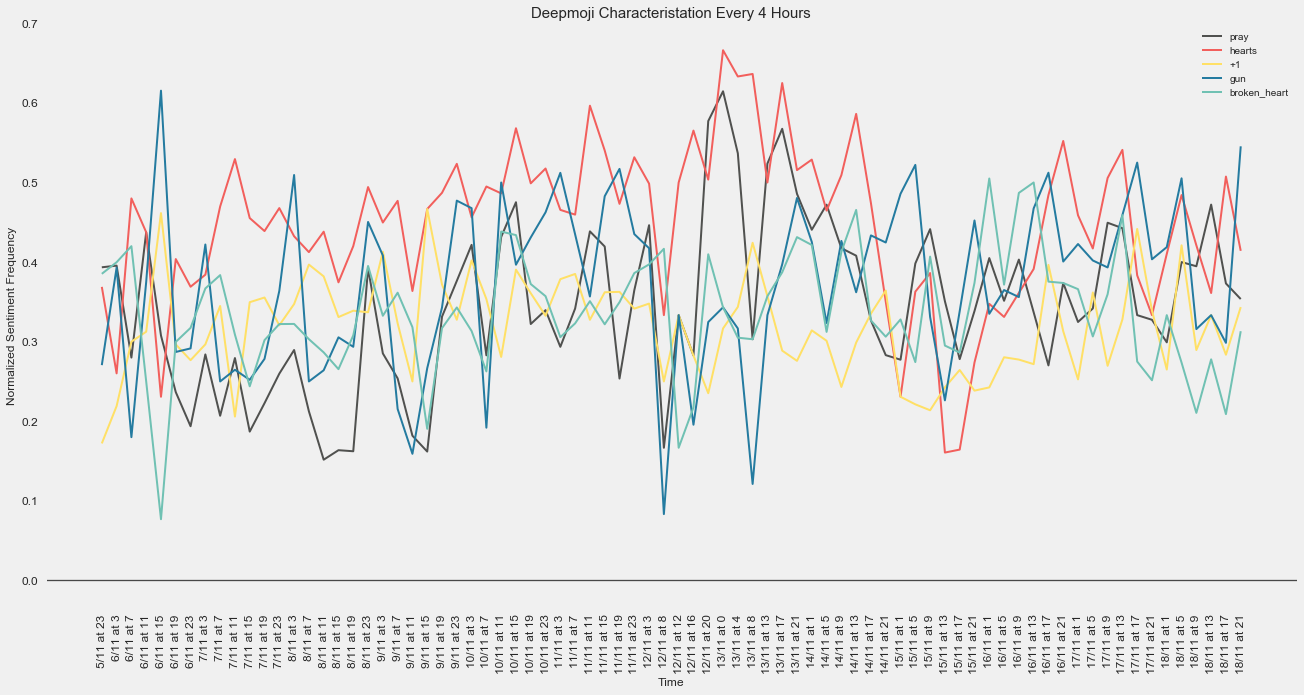
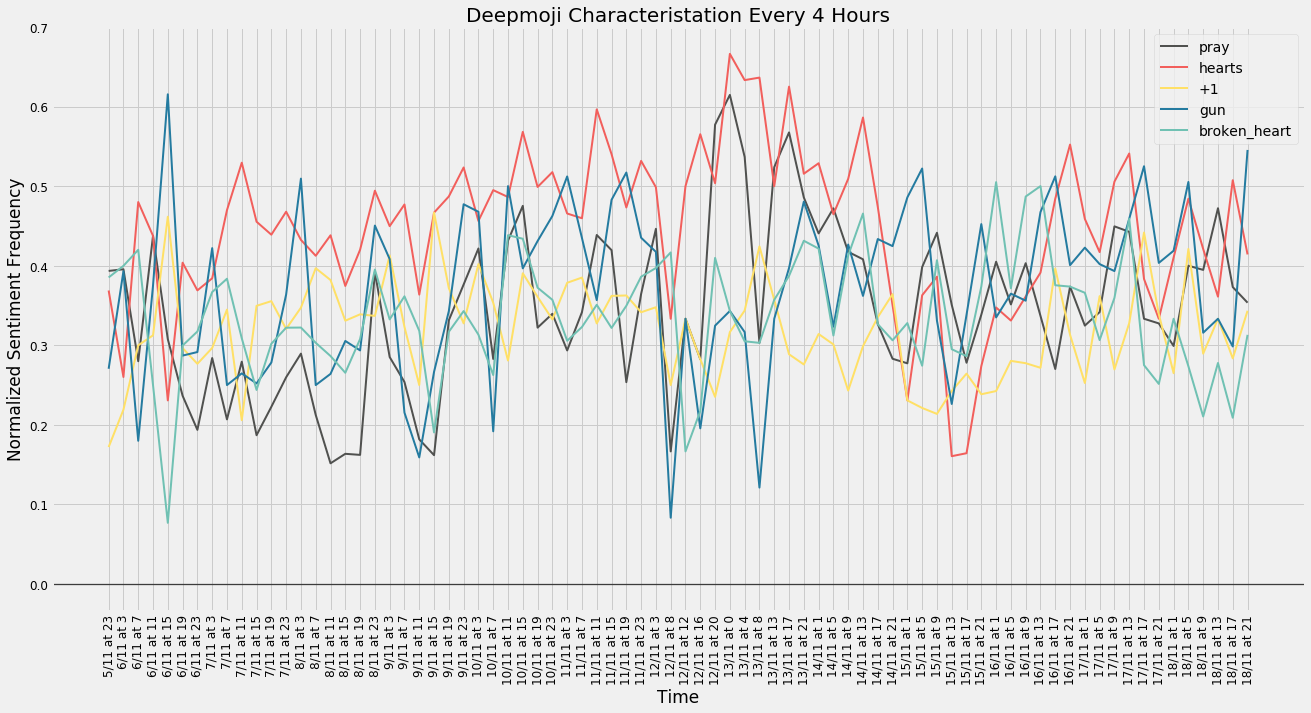
Advanced sentiment

diff --git a/sentiment-page.md b/sentiment-page.md
@@ -4,9 +4,11 @@ layout: default
 
 # Sentiment Analysis
 
-## Part 1: The mourning visualised 
+[TOC]
 
-The first aim was too study the sentiment of all of the tweets in our database, over time. After cleaning all of the tweets, and reducing them to their bare core, a database of happy words scoring by MIT was used. It's also interesting to see the "influencial" tweets and if they are connected to the popular opinion at all. 
+## Part 1: How happy?  
+
+	The first aim was too study the sentiment of all of the tweets in our database, over time. After cleaning all of the tweets, and reducing them to their bare core, a database of happy words scoring by MIT was used. It's also interesting to see the "influencial" tweets and if they are connected to the popular opinion at all. 
 
 ![over_time](images/over_time.png)
 
@@ -14,21 +16,81 @@ This visualisation confirms the hyopthesis that popular tweets are not only **mo
 
 Another interesting fact is to see the "week" mark (when 150 hours go by) and to see how the overall sentiment is one of **mourning**.
 
-## Part 2: Surprising words 
+But this analysis is not perfect, for example, this Normalised Sentiment Index only takes into account the happy words, and gives a happiness score. Furthermore, the python library used to extract tweets, seems to deliver them in a sort of random way, therefore, it can be hard to get a lot of "popular tweets".
+
+This was calculated according to the following formula, let's say a period (hours in this case) has n tweets: 
+$$
+\text{Normalized Sentiment Index}(\text{period}) = \frac{\sum^{n}_{1} \text{Happiness Score} }{n}
+$$
+
+## Part 2: What about words?  
+
+	The second part of the sentiment analysis was all about words. When sitting in a big database of tweets, it's interesting to look at the vocabulary and see what it tells about a given situation. 
+
+To do this, a handy python library called **wordCloud**, with it, a wordcloud visualisation was possible. As you can see, there are a lot of words here that make sense, given the tweets that were extracted. On another hand, there are some unexpected ones, namely "Trump". However, this image is really helpful in understanding the semantics around this event. 
+
+But this is limited. It seems that a simple word analysis does not tell as much, what exactly are people feeling? 
 
 ![emoji prediction](images/word_cloud.png)
 
 
 
-## Part 3: How emojis refine sentiment 💡
+
+
+## Part 3: How can emojis refine sentiment?💡
+
+	DeepMoji is a model trained on 1.2 billion tweets with emojis to understand how language is used to express emotions, you can learn more about it [here](https://github.com/bfelbo/DeepMoji). Using this model, we were able to go further than simply what words people use, but how people are actually feeling. 
+
+For each tweet, we used the DeepMoji pre-trained model to characterise the tweets. Using this technique, we could extract the emojis/emotions that best characterise the tweets. 
+
+This showed us that most people were feeling compassion (❤), but also some anger(🔫), and mourning (💔+🙏🏻). Of course, it is hard to know exactly how a certain person feels based on emojis, but it can certainly give a better insight than only Part 1. 
+
+
+
+| Emoji | Frequency |
+| :---: | :-------: |
+|  ❤*  |   17093   |
+|  🔫   |   16037   |
+|  💔   |   14085   |
+|  🙏   |   13855   |
+|  👍   |   12353   |
+|  💟   |   12049   |
+|  😢   |   12015   |
+|  😡   |   11016   |
+|  😠   |   8095    |
+|  😐   |   5371    |
+|  😕   |   4528    |
+|  ✌🏻  |   4367    |
+|  😳   |   4258    |
+|  ❤   |   4069    |
+|  😞   |   3591    |
+|  😈   |   3469    |
+|  😑   |   3354    |
+|  💪   |   3152    |
+|  👊   |   3115    |
+|   ✨   |   2952    |
+
+ (**)The first emoji that is more frequent is actually [hearts](https://emojipedia-us.s3.amazonaws.com/thumbs/144/twitter/103/black-heart-suit_2665.png) but this emoji does not exist in OSX, and therefore, I had to use a different one for aesthetic purposes.*
+
+But not only the top 20 are interesting, if we take a look at all of the emojis and their use, we can comprehend even more, let's take a look:
 
 ![emoji prediction](images/emoji prediction.png)
 
+It's quite apparent that certain emotions are "dominating" others, for example, ✌🏻 occurs 4300 times, and 🔫  occurs 16000 times - that's almost 4 times more (!). One possible way of interpreting this, is that for every 1 person that is felling ✌🏻, 4 are feeling 🔫.  Well, the data was collected right after a shooting, so it makes sense. 
 
+Since we analysed how the happiness index evolves over time, we thought it would be interesting to see how the sentiment evolves over time. (every 3 hours in this case.)
 
 ![over_time](images/emoji_over_time.png)
 
+By plotting the normalised sentiment frequency, we can see the evolution of certain emojis/sentiments. This allowed to realise several things: 
 
+1. The first sentiment to have high frequency and use is the 🔫, which starts by peaking at 0,6. After that, it fluctuates going to a very low point around the 12th of November. 
+2. When the sentiment is 🔫, the sentiment 💔 actually drops! This could indicate that were are in the presence of actual rage and not just tweets using the word gun. 
+3. Only at the week mark, around the 13th of November, the use of ❤ and 🙏🏻 starts to rise, peaking at very interesting levels, and in a correlated fashion. This rise corresponds to the big drop in happiness in the first graph of the first part, which could mean that this is mourning/faith, rather than love. 
+
+
+
+Figures were too small? Browse them [here](https://imgur.com/a/FWdZy) for a "bigger picture". 
 
 
 
